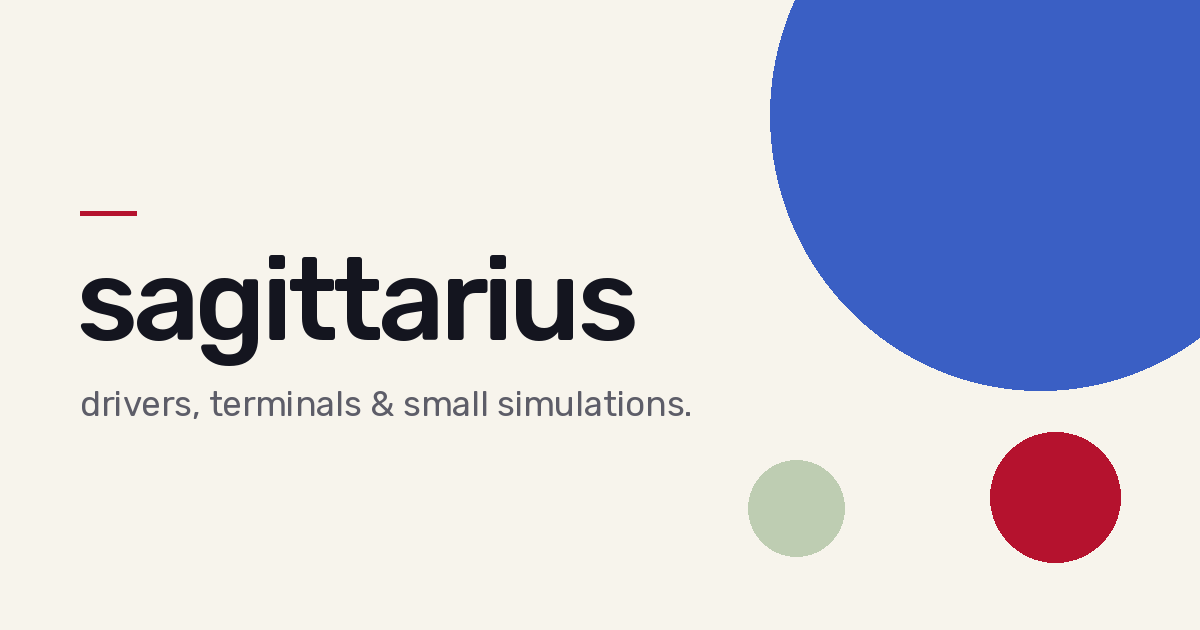
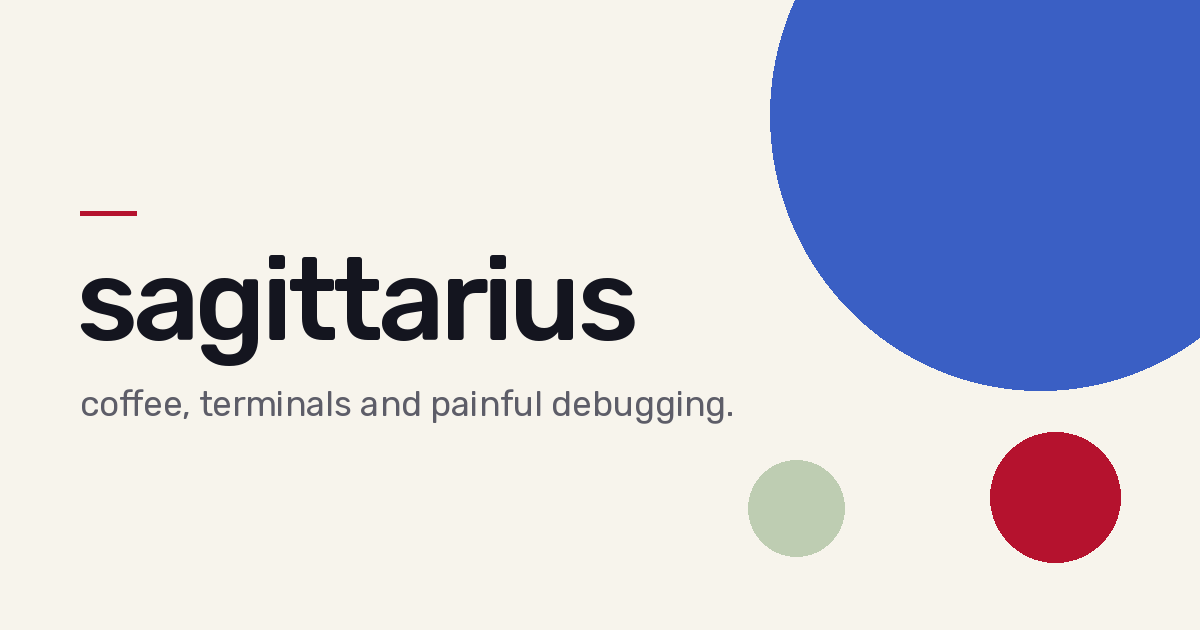
chore(og): update social preview tagline (#11)
Regenerate the OG image with the new copy.

Changed region(s): [[0.0617, 0.6032, 0.6167, 0.6937]]

diff --git a/scripts/og_render.py b/scripts/og_render.py
@@ -88,7 +88,7 @@ title = font(116, "Medium")
 tracked(76, 231, "sagittarius", title, INK, -4.6)
 
 sub = font(35, "Regular")
-lines = wrap("drivers, terminals & small simulations.", sub, 700)
+lines = wrap("coffee, terminals and painful debugging.", sub, 700)
 for i, line in enumerate(lines):
     d.text((80, 383 + i * 50), line, font=sub, fill=MUTED)
 
